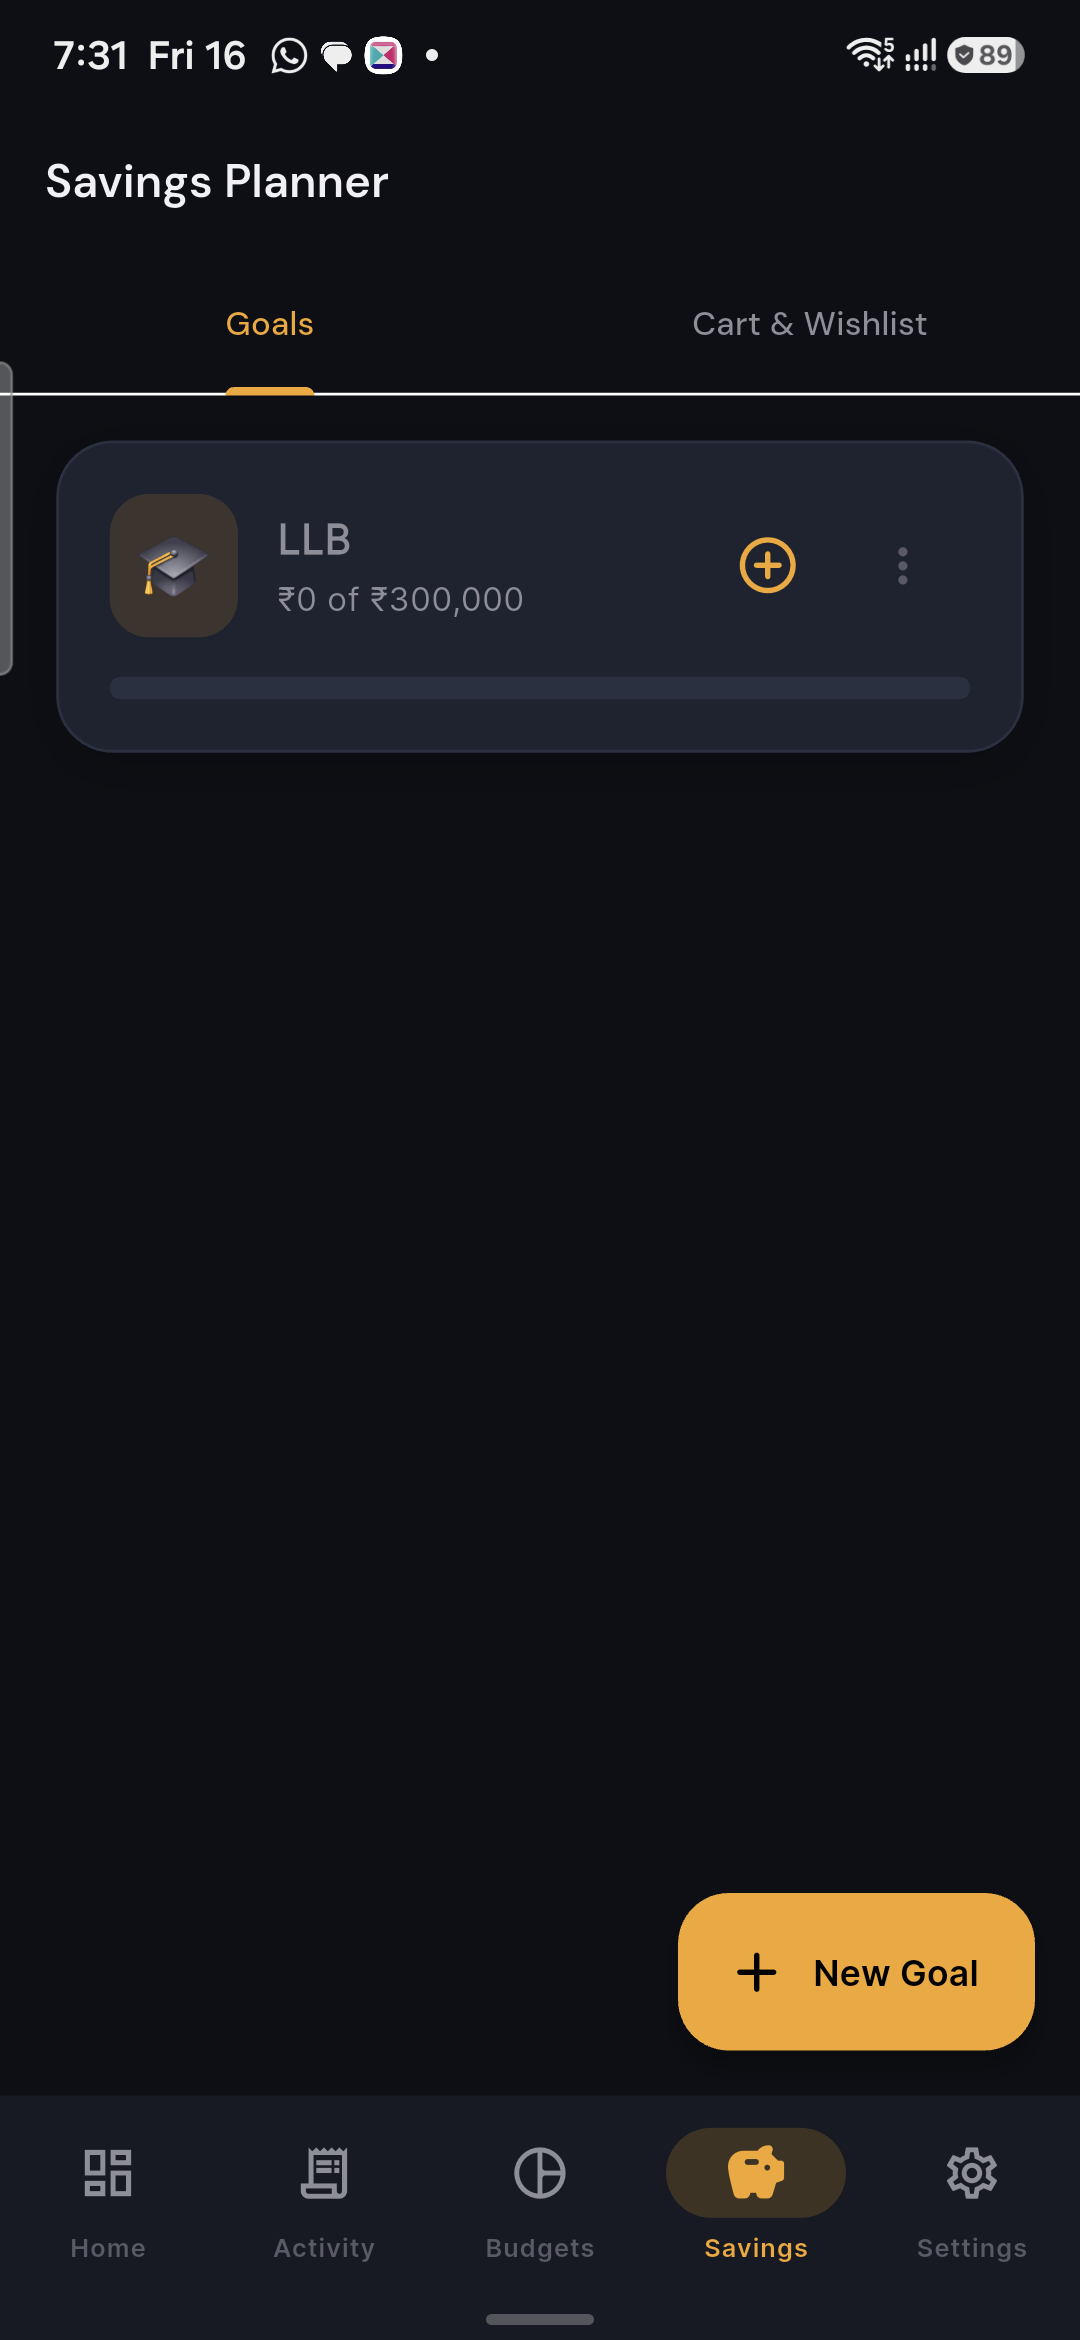
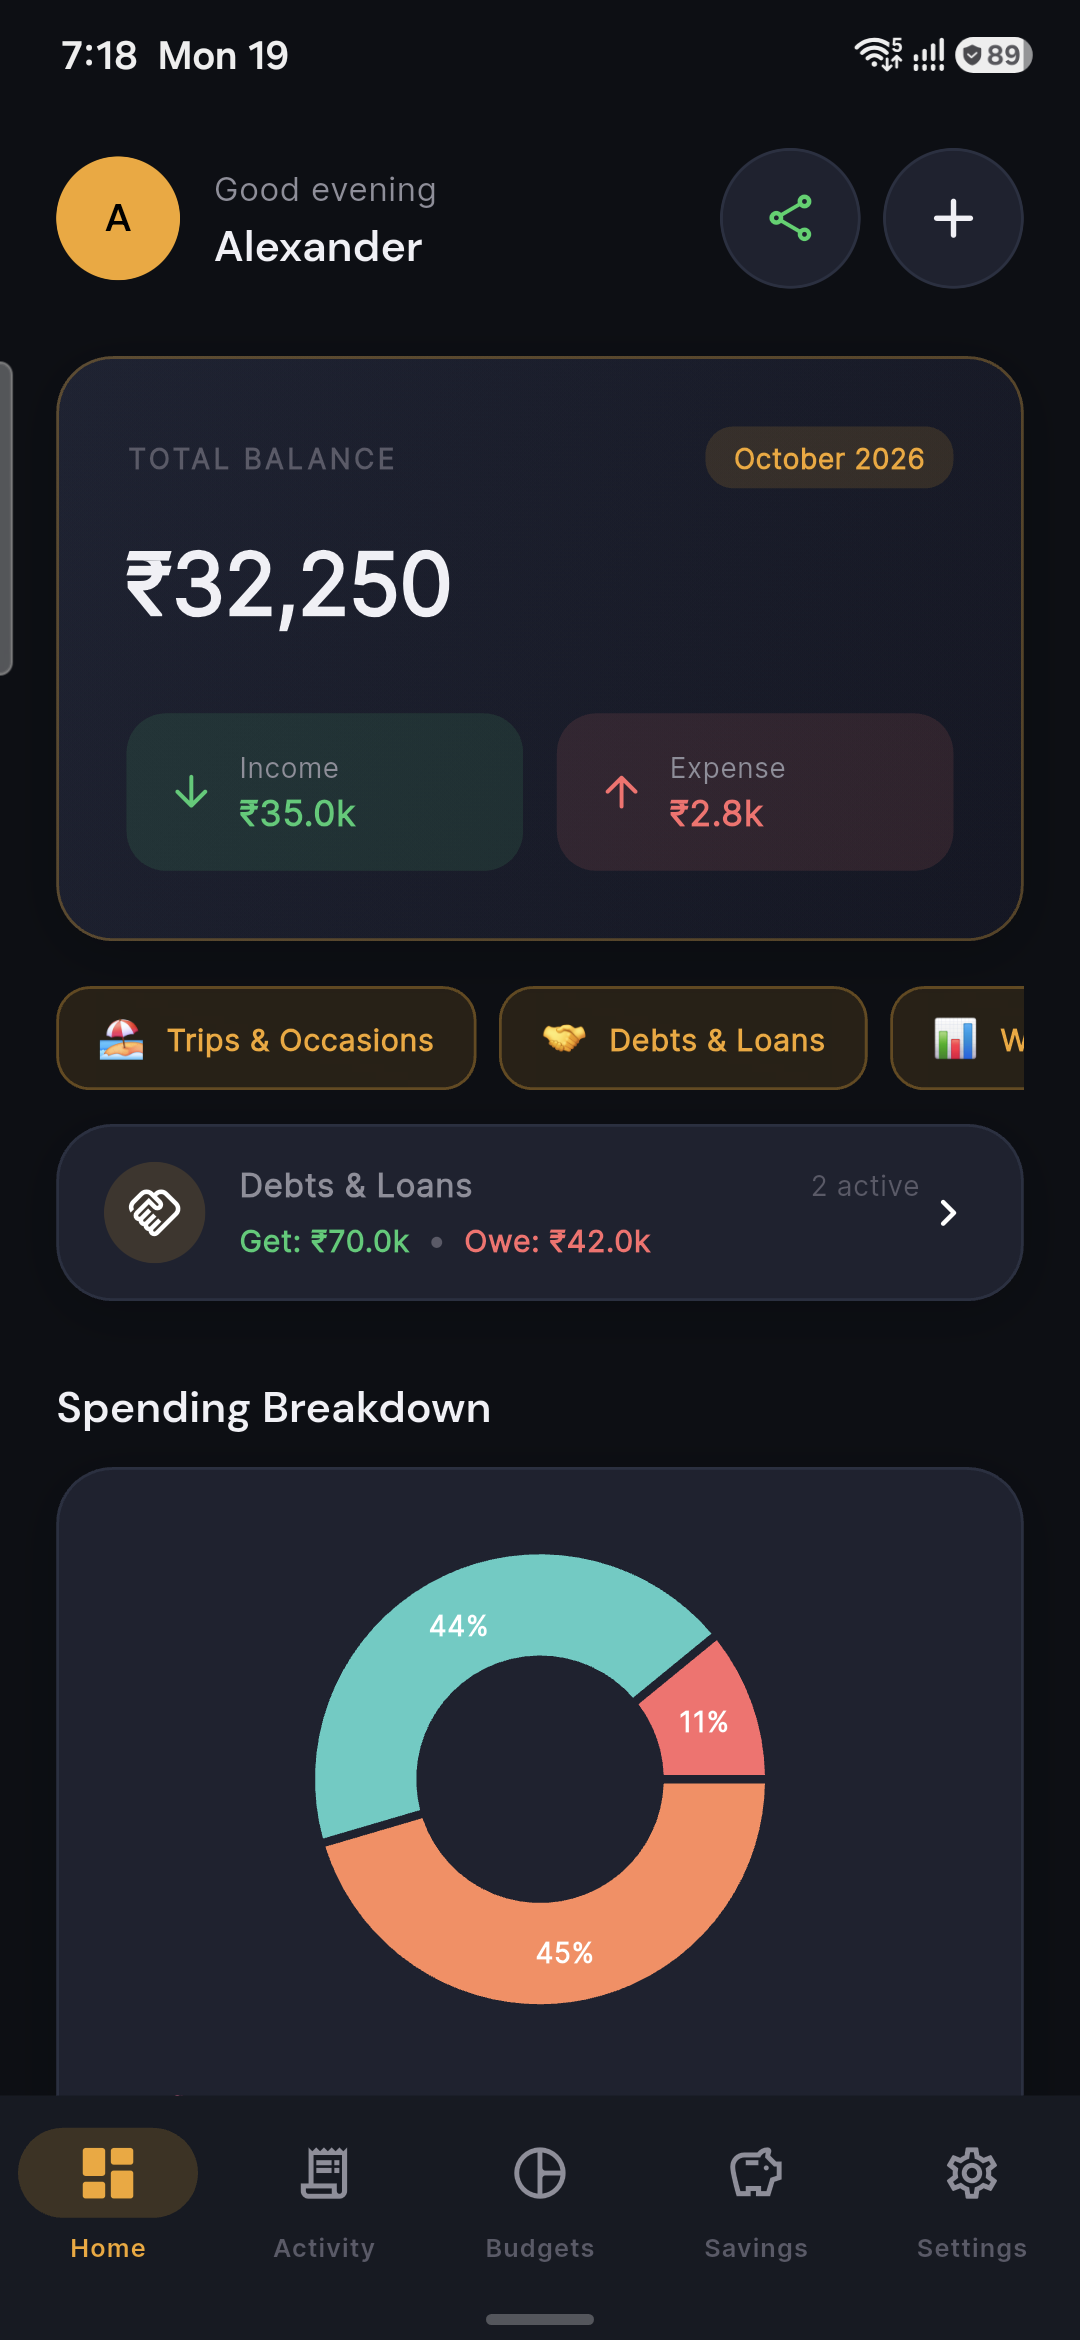
Update Play Store screenshots directly captured from device

diff --git a/play_store_assets/STORE_LISTING.md b/play_store_assets/STORE_LISTING.md
@@ -78,12 +78,12 @@ Take charge of your personal finances today. Download SpendWise and build lastin
 | :--- | :--- | :--- |
 | **App Icon** | 512 × 512 px PNG (32-bit, max 1MB) | `play_store_assets/app_icon_512x512.png` |
 | **Feature Graphic** | 1024 × 500 px PNG/JPEG (max 15MB) | `play_store_assets/feature_graphic_1024x500.png` |
-| **Screenshot 1** | Phone Screenshot (1080 × 2340) | `play_store_assets/screenshot_1_dashboard.png` |
-| **Screenshot 2** | Phone Screenshot (1080 × 2340) | `play_store_assets/screenshot_2_budgets.jpg` |
-| **Screenshot 3** | Phone Screenshot (1080 × 2340) | `play_store_assets/screenshot_3_savings.jpg` |
-| **Screenshot 4** | Phone Screenshot (1080 × 2340) | `play_store_assets/screenshot_4_categories.png` |
-| **Screenshot 5** | Phone Screenshot (1080 × 2340) | `play_store_assets/screenshot_5_multi_currency.png` |
-| **Screenshot 6** | Phone Screenshot (1080 × 2340) | `play_store_assets/screenshot_6_activity_reports.jpg` |
+| **Screenshot 1** | Phone Screenshot (1080 × 2340) | `play_store_assets/screenshot_1_dashboard.png` (Home Overview) |
+| **Screenshot 2** | Phone Screenshot (1080 × 2340) | `play_store_assets/screenshot_2_activity.png` (Transactions & Search) |
+| **Screenshot 3** | Phone Screenshot (1080 × 2340) | `play_store_assets/screenshot_3_budgets.png` (Monthly Budgets & Limits) |
+| **Screenshot 4** | Phone Screenshot (1080 × 2340) | `play_store_assets/screenshot_4_savings.png` (Savings Planner & Goals) |
+| **Screenshot 5** | Phone Screenshot (1080 × 2340) | `play_store_assets/screenshot_5_settings.png` (Settings & Biometric Lock) |
+| **Screenshot 6** | Phone Screenshot (1080 × 2340) | `play_store_assets/screenshot_6_occasions.png` (Occasions & Trips Tracker) |
 
 ---
 
